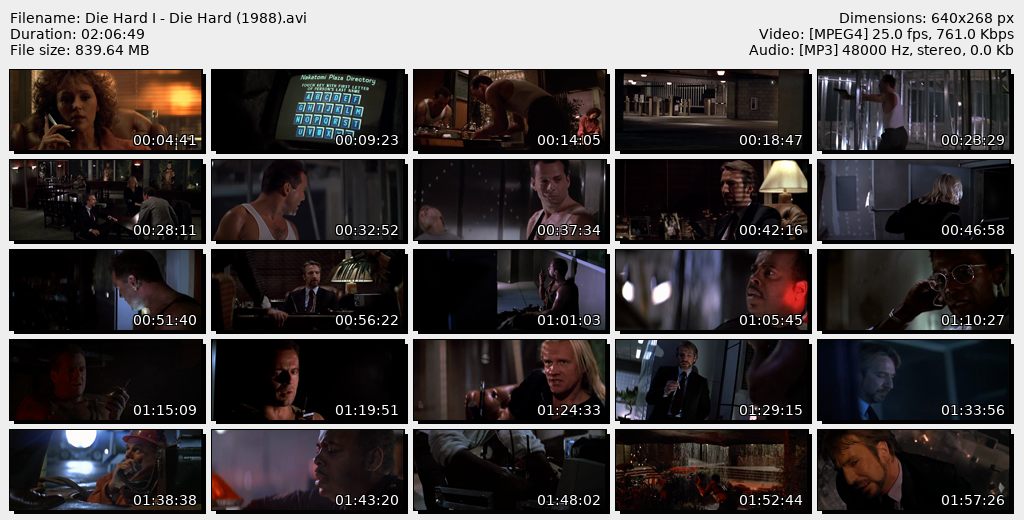
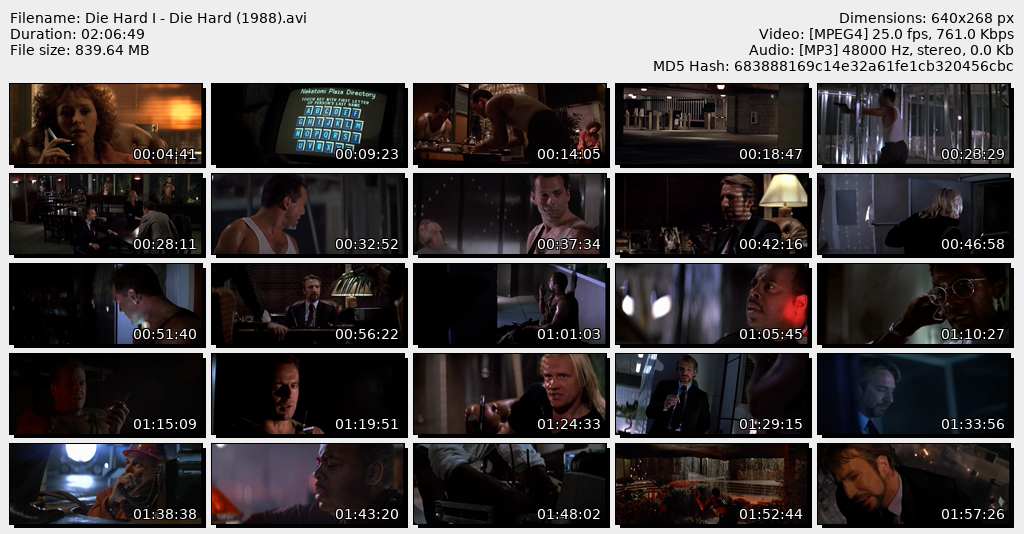
Add hashing of multiple types

diff --git a/thumbsheet.py b/thumbsheet.py
@@ -6,6 +6,7 @@ from glob import glob
 import itertools
 import argparse
 import logging
+import hashlib
 import pathlib
 import ffmpeg
 import enum
@@ -16,7 +17,6 @@ import os
 logging.basicConfig(level=logging.INFO)
 
 MARGIN = 10
-HEADER_HEIGHT = 70
 BACKGROUND_COLOR = (238, 238, 238) #'eeeeee'
 HEADER_TEXT_COLOR = (0, 0, 0)
 HEADER_TEXT_V_PADDING = 3
@@ -45,6 +45,22 @@ ALLOWED_FILE_EXTENSIONS = set([
     '.mp2', '.mpeg', '.mpe', '.mpv', '.m2v', '.m4v', '.svi', '.3gp', '.3g2',
     '.mxf', '.roq', '.nsv', '.f4v', '.f4p', '.f4a', '.f4b'
 ])
+
+def md5_hash_file(file: pathlib.Path):
+    try:
+        with open(file, 'rb') as f:
+            return hashlib.md5(f.read()).hexdigest()
+    except OSError:
+        pass
+    return None
+
+def sha1_hash_file(file: pathlib.Path):
+    try:
+        with open(file, 'rb') as f:
+            return hashlib.sha1(f.read()).hexdigest()
+    except OSError:
+        pass
+    return None
 
 def parse_sort_direction(val):
     print(val)
@@ -137,7 +153,7 @@ def frac_to_fps(frac: str):
 
 
 def main(videos, x, y, width, output_dir: pathlib.Path,
-         overwrite: bool, allow_all_extensions: bool, pattern: str, sort: str):
+         overwrite: bool, allow_all_extensions: bool, pattern: str, sort: str, hash_type: str):
     font = ImageFont.load_default()
     for f_test, size in TRY_FONTS:
         try:
@@ -170,7 +186,7 @@ def main(videos, x, y, width, output_dir: pathlib.Path,
         except KeyError as e:
             logging.error(f'Invalid pattern (-p). Unable to output thumb file.', exc_info=e)
             sys.exit(1)
-        #out_file = v.with_suffix('.jpg')
+            
         if output_dir is not None:
             out_file = output_dir / out_file.name
         if not overwrite and out_file.exists():
@@ -192,7 +208,7 @@ def main(videos, x, y, width, output_dir: pathlib.Path,
         thumb_count = min(num_frames, x*y)
         bracketed_thumb_count = min(num_frames, (x*y)+2)
 
-        logging.info("Extracting %d frames out of %d", thumb_count, num_frames)
+        logging.debug("Extracting %d frames out of %d", thumb_count, num_frames)
         
         w_scaled = ((width - MARGIN) // x) - MARGIN
         h_scaled = int(h * w_scaled / w)
@@ -200,9 +216,11 @@ def main(videos, x, y, width, output_dir: pathlib.Path,
         fps = max(1, num_frames // bracketed_thumb_count)
 
         # for large videos, faster to run ffmpeg multiple times than evaluate
-        # each frame in one pass through the video
+        # each frame in one pass through the video. The -ss can skip straight
+        # to a point in time, but cannot be used multiple times in one ffmpeg
+        # call
         if num_frames > LARGE_VIDEO_FRAME_COUNT:
-            logging.debug(f'Using multi-process heuristic because frame count {num_frames} > {LARGE_VIDEO_FRAME_COUNT}')
+            logging.debug(f'Using multi-process method because frame count {num_frames} > {LARGE_VIDEO_FRAME_COUNT}')
             frames = bytearray()
             skip = duration_s / bracketed_thumb_count
             try:
@@ -234,23 +252,31 @@ def main(videos, x, y, width, output_dir: pathlib.Path,
             except ffmpeg._run.Error as e:
                 logging.error("Error collecting frames from video", exc_info=e)
                 continue
+        
+        # using all caps to gauge the max height of a line of text
+        _, text_height = font.getsize('SAMPLE')
+
+        max_header_text_lines = 4  # make sure to sync this with the code that comes after
+        header_height = 2*MARGIN + max_header_text_lines * (text_height + HEADER_TEXT_V_PADDING)
 
         # * 3 to cover R, G, and B bytes
         frame_size = w_scaled * h_scaled * 3
-        height = HEADER_HEIGHT + (MARGIN + h_scaled) * y
+        height = header_height + (MARGIN + h_scaled) * y
         base_layer = Image.new('RGB', (width, height), BACKGROUND_COLOR)
 
         duration = format_time(duration_s)        
         file_size = approximate_size_bytes(os.path.getsize(v))
+        hash = None
+        if hash_type == 'md5':
+            hash = f'MD5 Hash: {md5_hash_file(v)}'
+        elif hash_type == 'sha1':
+            hash = f'SHA1 Hash: {sha1_hash_file(v)}'
 
         header = ImageDraw.Draw(base_layer)
-        
-        # using all caps to gauge the max height of a line of text
-        _, h_height = header.textsize('SAMPLE', font=font)
 
         header.text((MARGIN, MARGIN), f'Filename: {v.name}', font=font, fill=HEADER_TEXT_COLOR)
-        header.text((MARGIN, MARGIN + (h_height + HEADER_TEXT_V_PADDING)*1), f'Duration: {duration}', font=font, fill=HEADER_TEXT_COLOR)
-        header.text((MARGIN, MARGIN + (h_height + HEADER_TEXT_V_PADDING)*2), f'File size: {file_size}', font=font, fill=HEADER_TEXT_COLOR)
+        header.text((MARGIN, MARGIN + (text_height + HEADER_TEXT_V_PADDING)*1), f'Duration: {duration}', font=font, fill=HEADER_TEXT_COLOR)
+        header.text((MARGIN, MARGIN + (text_height + HEADER_TEXT_V_PADDING)*2), f'File size: {file_size}', font=font, fill=HEADER_TEXT_COLOR)
 
         dimensions = f'Dimensions: {w}x{h} px'
         h_width, _ = header.textsize(dimensions, font=font)
@@ -258,11 +284,14 @@ def main(videos, x, y, width, output_dir: pathlib.Path,
         if video_codec:
             video_codec = f'Video: {video_codec}'
             h_width, _ = header.textsize(video_codec, font=font)
-            header.text((width-h_width-MARGIN, MARGIN + (h_height + HEADER_TEXT_V_PADDING) * 1), video_codec, font=font, fill=HEADER_TEXT_COLOR)
+            header.text((width-h_width-MARGIN, MARGIN + (text_height + HEADER_TEXT_V_PADDING) * 1), video_codec, font=font, fill=HEADER_TEXT_COLOR)
         if audio_codec:
             audio_codec = f'Audio: {audio_codec}'
             h_width, _ = header.textsize(audio_codec, font=font)
-            header.text((width-h_width-MARGIN, MARGIN + (h_height + HEADER_TEXT_V_PADDING) * 2), audio_codec, font=font, fill=HEADER_TEXT_COLOR)
+            header.text((width-h_width-MARGIN, MARGIN + (text_height + HEADER_TEXT_V_PADDING) * 2), audio_codec, font=font, fill=HEADER_TEXT_COLOR)
+        if hash:
+            h_width, _ = header.textsize(hash, font=font)
+            header.text((width-h_width-MARGIN, MARGIN + (text_height + HEADER_TEXT_V_PADDING) * 3), hash, font=font, fill=HEADER_TEXT_COLOR)
 
         
         for y_idx in range(y):
@@ -276,14 +305,14 @@ def main(videos, x, y, width, output_dir: pathlib.Path,
                 base_layer.paste(
                     shadow,
                     (MARGIN + (MARGIN + w_scaled) * x_idx + SHADOW_MARGIN,
-                    HEADER_HEIGHT + (MARGIN + h_scaled) * y_idx + SHADOW_MARGIN))
+                    header_height + (MARGIN + h_scaled) * y_idx + SHADOW_MARGIN))
                 
                 border = Image.new('RGB',
                     (w_scaled + 2*BORDER_WIDTH, h_scaled + 2*BORDER_WIDTH), BORDER_COLOR)
                 base_layer.paste(
                     border,
                     (MARGIN + (MARGIN + w_scaled) * x_idx - BORDER_WIDTH,
-                    HEADER_HEIGHT + (MARGIN + h_scaled) * y_idx - BORDER_WIDTH))
+                    header_height + (MARGIN + h_scaled) * y_idx - BORDER_WIDTH))
                 
                 thumb = Image.frombytes('RGB', (w_scaled, h_scaled), frame, 'raw')
                 
@@ -307,7 +336,7 @@ def main(videos, x, y, width, output_dir: pathlib.Path,
                 base_layer.paste(
                     thumb,
                     (MARGIN + (MARGIN + w_scaled) * x_idx,
-                    HEADER_HEIGHT + (MARGIN + h_scaled) * y_idx))
+                    header_height + (MARGIN + h_scaled) * y_idx))
                 
         base_layer.save(out_file)
 
@@ -337,6 +366,10 @@ if __name__ == '__main__':
                         help='Sort input by filename before '
                              'processing. Mostly useful when combined with '
                              '{idx} pattern. By default, left unsorted.')
+    parser.add_argument('--hash', choices={'none', 'md5', 'sha1'}, default='md5',
+                        help='Choose the hash algorithm to use in the description. '
+                             'If "none" is chosen, will not hash (this will make '
+                             'thumbnail generation faster)')
     parser.add_argument('--output-dir', type=pathlib.Path,
                         help="Alternate output directory for thumbnail.")
     parser.add_argument('videos', nargs='+', type=pathlib.Path, metavar='V')
@@ -348,4 +381,4 @@ if __name__ == '__main__':
         sys.exit(1)
 
     main(args.videos, args.dimensions['x'], args.dimensions['y'],
-         args.width, args.output_dir, args.overwrite, args.all, args.pattern, args.sort)
+         args.width, args.output_dir, args.overwrite, args.all, args.pattern, args.sort, args.hash)

diff --git a/README.md b/README.md
@@ -33,9 +33,9 @@ different file formats (e.g. mkv) even for similarly-sized files.
 
     python3 thumbsheet.py -d 5x5 '~/vid/Die Hard I.avi'
 
-Time to process: ~4.4 seconds
+Time to process: ~5.9 seconds
 
-![](screenshots/thumbsheet.jpg)
+![](screenshots/thumbsheet.png)
 
 ### VCS
 
@@ -44,7 +44,7 @@ Time to process: ~4.4 seconds
 
 Time to process: ~13.4 seconds
 
-![](screenshots/vcs.jpg)
+![](screenshots/vcs.png)
 
 ### SlickSlice
 
